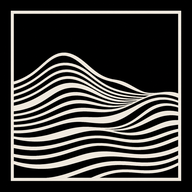
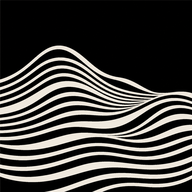
Add files via upload

diff --git a/index.html b/index.html
@@ -8,9 +8,11 @@
 <meta name="mobile-web-app-capable" content="yes">
 <meta name="apple-mobile-web-app-title" content="MENDI Training">
 <meta name="apple-mobile-web-app-status-bar-style" content="black-translucent">
-<link rel="manifest" href="manifest.webmanifest">
-<link rel="apple-touch-icon" href="icon-180.png">
-<link rel="icon" href="icon-192.png" type="image/png">
+<link rel="apple-touch-icon" sizes="180x180" href="icon-180.png?v=2">
+<link rel="icon" type="image/png" sizes="32x32" href="favicon-32.png?v=2">
+<link rel="icon" type="image/png" sizes="16x16" href="favicon-16.png?v=2">
+<link rel="icon" type="image/png" sizes="192x192" href="icon-192.png?v=2">
+<link rel="manifest" href="manifest.webmanifest?v=2">
 <title>MENDI Training</title>
 <style>
 :root{--bg:#0c0d0f;--card:#17191c;--card2:#0f1113;--line:#2a2e33;--txt:#ece6d8;--mut:#9b9a93;--run:#f97316;--ride:#38bdf8;--ok:#4ade80;--warn:#facc15;--ko:#f87171;
